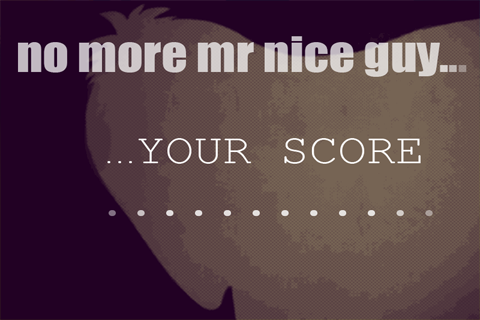
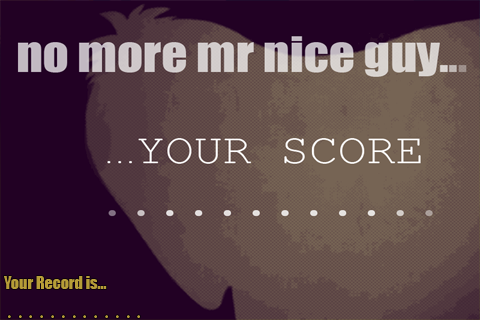
Adicionado rascunho da pontuação

Changed region(s): [[0.0, 0.8438, 0.2188, 0.9062], [0.2188, 0.9688, 0.25, 1.0]]

diff --git a/game/scenes.py b/game/scenes.py
@@ -7,7 +7,12 @@ from random import randint
 from game.utils import Background, Sign, LivesSign, Hole, Player
 from game.moles import Mole
 from game.buttons import Button
-from settings import fonts_dir
+from settings import fonts_dir, sounds_dir, project_dir
+
+try:
+    import pygame.mixer as mixer
+except ImportError:
+    import android.mixer as mixer
 
 
 class Scene:
@@ -16,6 +21,7 @@ class Scene:
     next_scene = None
     context = None
     quit = False
+    music = None
 
     def __init__(self, context):
         self.actors_dict = {"buttons": pygame.sprite.RenderPlain()}
@@ -48,6 +54,7 @@ class Scene:
             if event.type == pygame.QUIT:
                 self.quit_event()
             elif event.type == pygame.KEYDOWN:
+                self.quit_event()
                 self.keydown_event()
             elif event.type == pygame.KEYUP:
                 self.keyup_event()
@@ -87,7 +94,21 @@ class Scene:
     def loop(self):
         pass
 
+    def set_music(self, sound):
+        path = os.path.join(sounds_dir, sound)
+        self.music = mixer.music.load(path)
+
+    def handle_music(self):
+        # import pdb; pdb.set_trace()
+        if self.music:
+            if self.context['music'] == 'play':
+                mixer.music.stop()
+                mixer.music.play(-1)
+            elif self.context['music'] == 'off':
+                mixer.music.stop()
+
     def play(self, clock):
+        self.handle_music()
         self.start()
 
         while self.run:
@@ -118,18 +139,28 @@ class TheBugSplashScene(TimerScene):
     def __init__(self, context):
         TimerScene.__init__(self, context, 'bug_logo.png')
         self.next_scene = TitleScene(self.context)
+        self.set_music('title_music.mp3')
+
+    def start(self):
+        self.context['music'] = 'play'
 
 
 class FatecSplashScene(TimerScene):
     def __init__(self, context):
         TimerScene.__init__(self, context, 'fatec_logo.png')
         self.next_scene = TheBugSplashScene(self.context)
+        # self.set_music('title_music.mp3')
+        self.music = mixer.music.load('sounds/title_music.mp3')
+
+    def start(self):
+        self.context['music'] = 'on'
 
 
 class EndScene(TimerScene):
     def __init__(self, context):
         TimerScene.__init__(self, context, 'end_game.png')
         self.next_scene = TitleScene(self.context)
+        self.set_music('gag.mp3')
 
     def start(self):
         font_path = os.path.join(fonts_dir, 'FreeSans.ttf')
@@ -139,9 +170,29 @@ class EndScene(TimerScene):
         self.align = (440 - (self.score.get_width()))
         self.context['player'].lives = 5
         self.context['player'].lives = 5
+        self.get_score()
 
     def redraw(self):
         self.context['screen'].blit(self.score, (self.align, 170))
+
+    def get_score(self):
+        path = os.path.join(project_dir, 'score.txt')
+        score = self.context['player'].score
+
+        try:
+            score_file = open(path, 'r')
+            file_score = int(score_file.read())
+            if score < file_score:
+                score = file_score
+            score_file.close()
+        except IOError:
+            pass
+
+        score_file = open(path, 'w')
+        score_file.write(str(score))
+        score_file.close()
+        # score_list = score_file.read().split('\\n')
+        # import pdb; pdb.set_trace()
 
 
 class TitleScene(Scene):
@@ -149,6 +200,7 @@ class TitleScene(Scene):
     def __init__(self, context):
         Scene.__init__(self, context)
         self.background = Background('title_screen.png')
+        self.set_music('title_music.mp3')
 
     def mousebuttondown_event(self):
         for button in self.actors_dict['buttons']:

diff --git a/main.py b/main.py
@@ -34,7 +34,7 @@ class Game(object):
 
     def loop(self):
         clock = pygame.time.Clock()
-        context = {'dt': 50, 'screen': self.screen}
+        context = {'dt': 50, 'screen': self.screen, 'music': 'play'}
         scene = FatecSplashScene(context)
 
         while scene:

diff --git a/settings.py b/settings.py
@@ -3,3 +3,4 @@ import os
 project_dir = os.path.dirname(os.path.abspath(__file__))
 images_dir = os.path.join(project_dir, "images")
 fonts_dir = os.path.join(project_dir, "fonts")
+sounds_dir = os.path.join(project_dir, "sounds")
